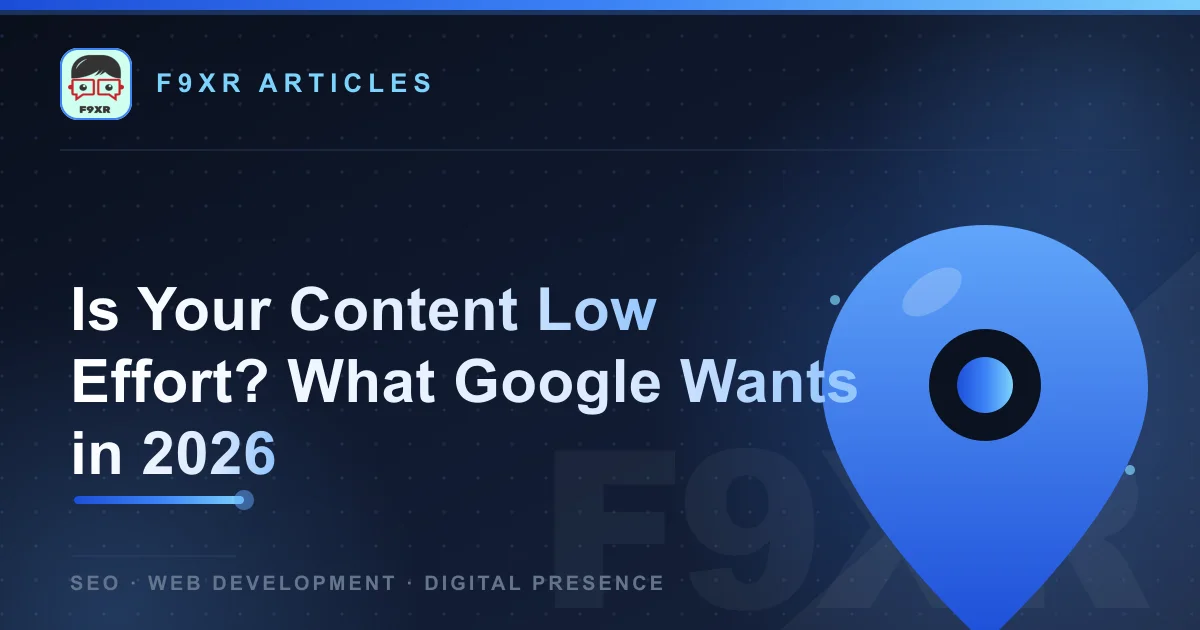
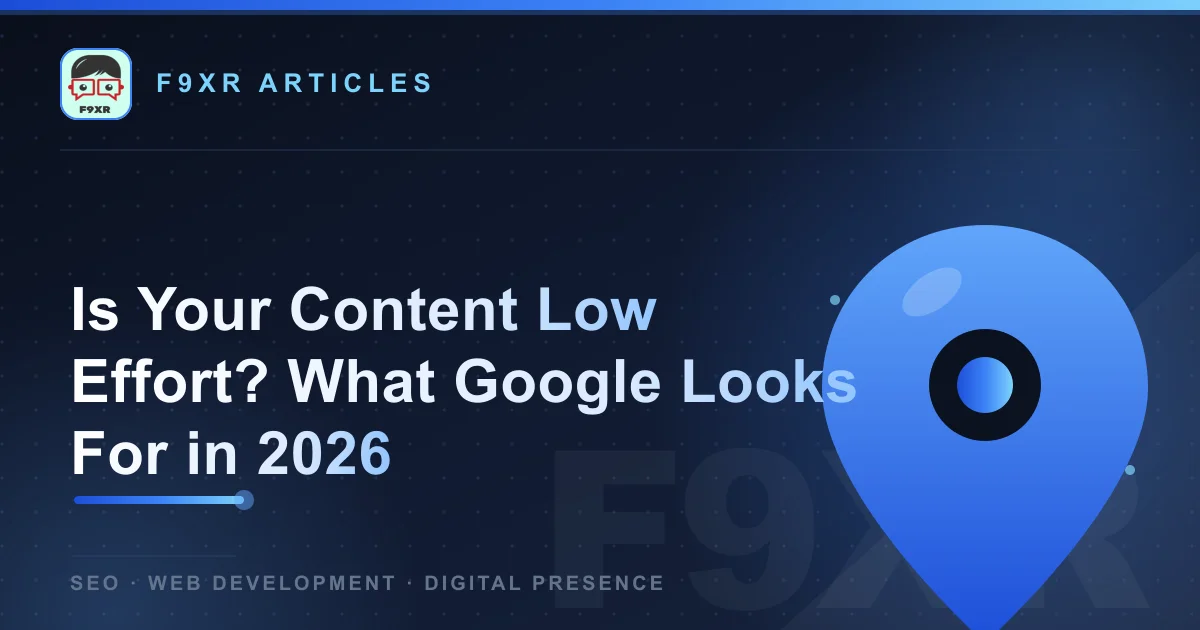
Use exact headline: What Google Looks For in 2026

Changed region(s): [[0.0617, 0.6635, 0.3392, 0.754], [0.555, 0.573, 0.7092, 0.6635]]

diff --git a/_posts/2026-10-27-what-is-low-effort-content-for-google.md b/_posts/2026-10-27-what-is-low-effort-content-for-google.md
@@ -1,6 +1,6 @@
 ---
 layout: post
-title: "Is Your Content Low Effort? What Google Wants in 2026"
+title: "Is Your Content Low Effort? What Google Looks For in 2026"
 description: "Google just spelled out what low effort content means. Learn the four tests, the red flags, and a simple fix plan for small business websites."
 image: "https://f9xr.org/articles/assets/post-images/what-is-low-effort-content-for-google.webp"
 image_width: 1200
